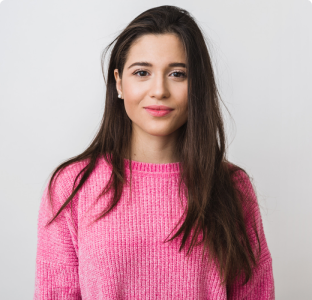
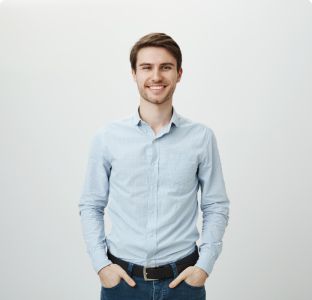
students feedback

diff --git a/index.html b/index.html
@@ -7,6 +7,9 @@
 
     <!-- bootstrap css link -->
     <link href="https://cdn.jsdelivr.net/npm/bootstrap@5.2.0/dist/css/bootstrap.min.css" rel="stylesheet" integrity="sha384-gH2yIJqKdNHPEq0n4Mqa/HGKIhSkIHeL5AyhkYV8i59U5AR6csBvApHHNl/vI1Bx" crossorigin="anonymous">
+
+    <!-- fontAwesome -->
+    <script src="https://kit.fontawesome.com/edb64f6a7f.js" crossorigin="anonymous"></script>
   </head>
   <body>
       <!-------------------
@@ -207,7 +210,7 @@
 
           <!-- Modal Section -->
 
-          <section>
+          <section class="my-5">
             <div class="bg-info p-5 text-light d-lg-flex justify-content-evenly align-items-center text-center d-sm-block rounded">
               <div class="d-block">
                 <h1 class="fw-bold fs-1">Ready To Join?</h1>
@@ -241,6 +244,80 @@
                 </section>
                 <!--Finished Modal-->
 
+                <!-- Student Section -->
+                <section class="mt-5">
+                  <h1 class="fs-1">Meet some of our successfull students</h1>
+                  <p class="fs-4">Here are some of our students who successfully completed our courses and now working in different companies.</p>
+                  <div class="d-lg-flex justify-content-evenly my-5">
+                    <div class="mt-5">
+                      <img src="images/student/student-1.png" class="img-fluid rounded" alt="">
+                      <h2 class="fw-bold">Mahin Islam</h2>
+                      <h3 class="fs-4 text-secondary">Web Developer</h3>
+                    </div>
+                    <div class="mt-5">
+                      <img src="images/student/student-2.png" class="img-fluid rounded" alt="">
+                      <h2 class="fw-bold">John Doe</h2>
+                      <h3 class="fs-4 text-secondary">UI/UX designer</h3>
+                    </div>
+                    <div class="mt-5">
+                      <img src="images/student/student-3.png" class="img-fluid rounded" alt="">
+                      <h2 class="fw-bold">Stiven Jack</h2>
+                      <h3 class="fs-4 text-secondary">Digital Marketer</h3>
+                    </div>
+                  </div>
+                  <button class="btn btn-info fs-3 fw-semibold text-light px-4 py-1 my-5">View More</button>
+                </section>
+
+                <!-- students feedback -->
+                <section>
+                  <h1 class="fw-bold fs-1">Feedback</h1>
+                  <p>Here are some of our students Feedback</p>
+                  <div class="d-flex">
+                    <div class="w-50 m-5 border p-5 rounded">
+                      <div class="d-flex justify-content-between">
+                        <img src="images/comma.png" class="img-fluid" alt="">
+                        <p>
+                          <i class="fa-solid fa-star text-warning"></i>
+                          <i class="fa-solid fa-star text-warning"></i>
+                          <i class="fa-solid fa-star text-warning"></i>
+                          <i class="fa-solid fa-star text-warning"></i>
+                          <i class="fa-regular fa-star text-warning"></i>
+                        </p>
+                      </div>
+                      <p>This course is very effective to learn anything. I have completed a course on basic photography. It helped me a lot to become a progessional photographer.</p>
+                      <div class="d-flex">
+                        <img src="images/student/student-6.png" class="img-fluid" alt="">
+
+                        <div class="ms-3">
+                          <h4>Shanta Akter</h4>
+                          <h5>Photographer</h5 >
+                        </div>
+                      </div>
+                    </div>
+
+                    <div class="w-50 m-5 border p-5 rounded">
+                      <div class="d-flex justify-content-between ">
+                        <img src="images/comma.png" alt="">
+                        <p>
+                          <i class="fa-solid fa-star text-warning"></i>
+                          <i class="fa-solid fa-star text-warning"></i>
+                          <i class="fa-solid fa-star text-warning"></i>
+                          <i class="fa-solid fa-star text-warning"></i>
+                          <i class="fa-regular fa-star text-warning"></i>
+                        </p>
+                      </div>
+                      <p>Learn Online is a great platform where I have found a very pleasent lrarning environment. I will recommand this course to everyone who want to learn Graphic Design.</p>
+                      <div class="d-flex">
+                        <img src="images/student/student-5.png" class="img-fluid" alt="">
+                        <div class="ms-3">
+                          <h4>Awlad Hossain</h4>
+                          <h5>UI designer</h5 >
+                        </div>
+                      </div>
+                    </div>
+                </div>
+                </section>
+                <!-- Finished student feedback -->
                 
     </main>
 
